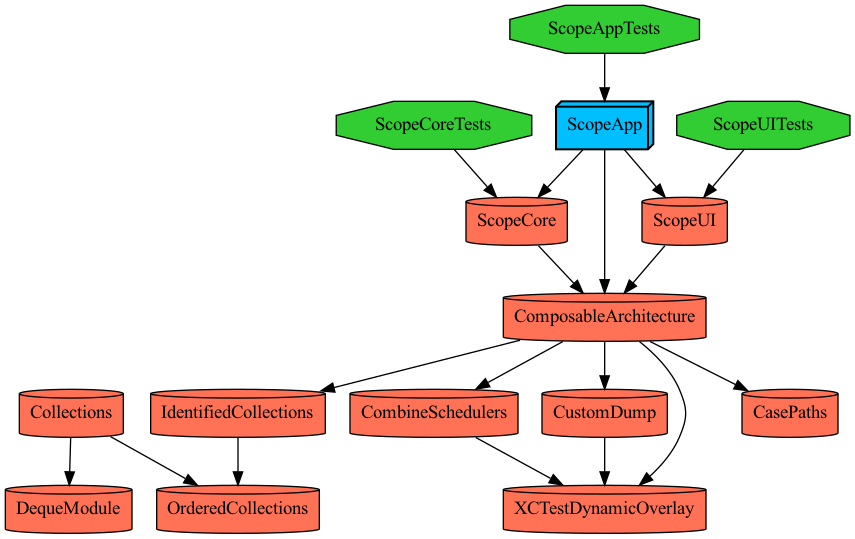
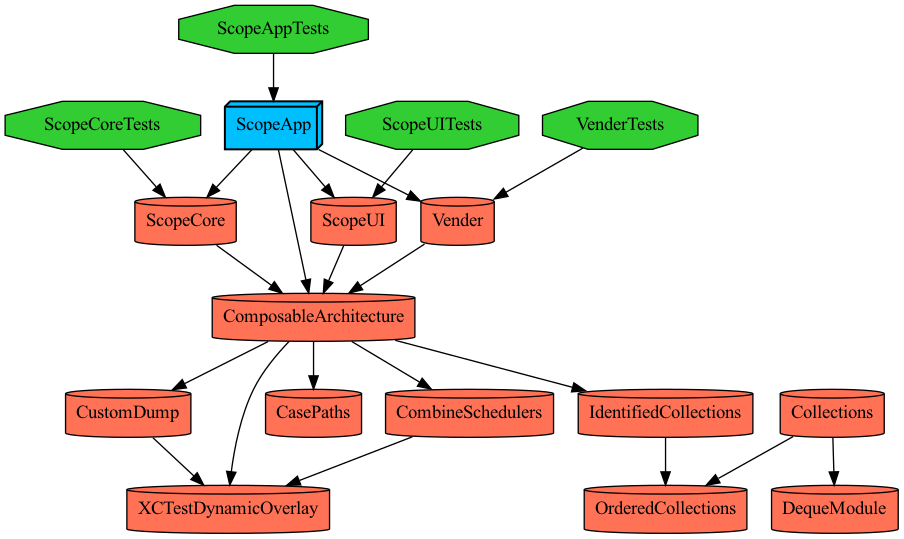
Firebase기능 추가를 위한 Vender project추가
- 관련 의존성 그래프 업데이트

diff --git a/Projects/ScopeApp/Project.swift b/Projects/ScopeApp/Project.swift
@@ -8,7 +8,8 @@ let project = Project(
         name: "ScopeApp",
         appDependencies: [
             .project(target: "ScopeCore", path: "../ScopeCore"),
-            .project(target: "ScopeUI", path: "../ScopeUI")
+            .project(target: "ScopeUI", path: "../ScopeUI"),
+            .project(target: "Vender", path: "../Vender"),
         ],
         testDependencies: []
     ),

diff --git a/Projects/Vender/Project.swift b/Projects/Vender/Project.swift
@@ -1,0 +1,14 @@
+import ProjectDescription
+import ProjectDescriptionHelpers
+
+let project = Project(
+    name: "Vender",
+    organizationName: "com.devyhan93.scope",
+    targets: Project.staticFrameworkTargets(
+        name: "Vender",
+        frameworkDependencies: [],
+        testDependencies: []
+    ),
+    schemes: [],
+    additionalFiles: []
+)
